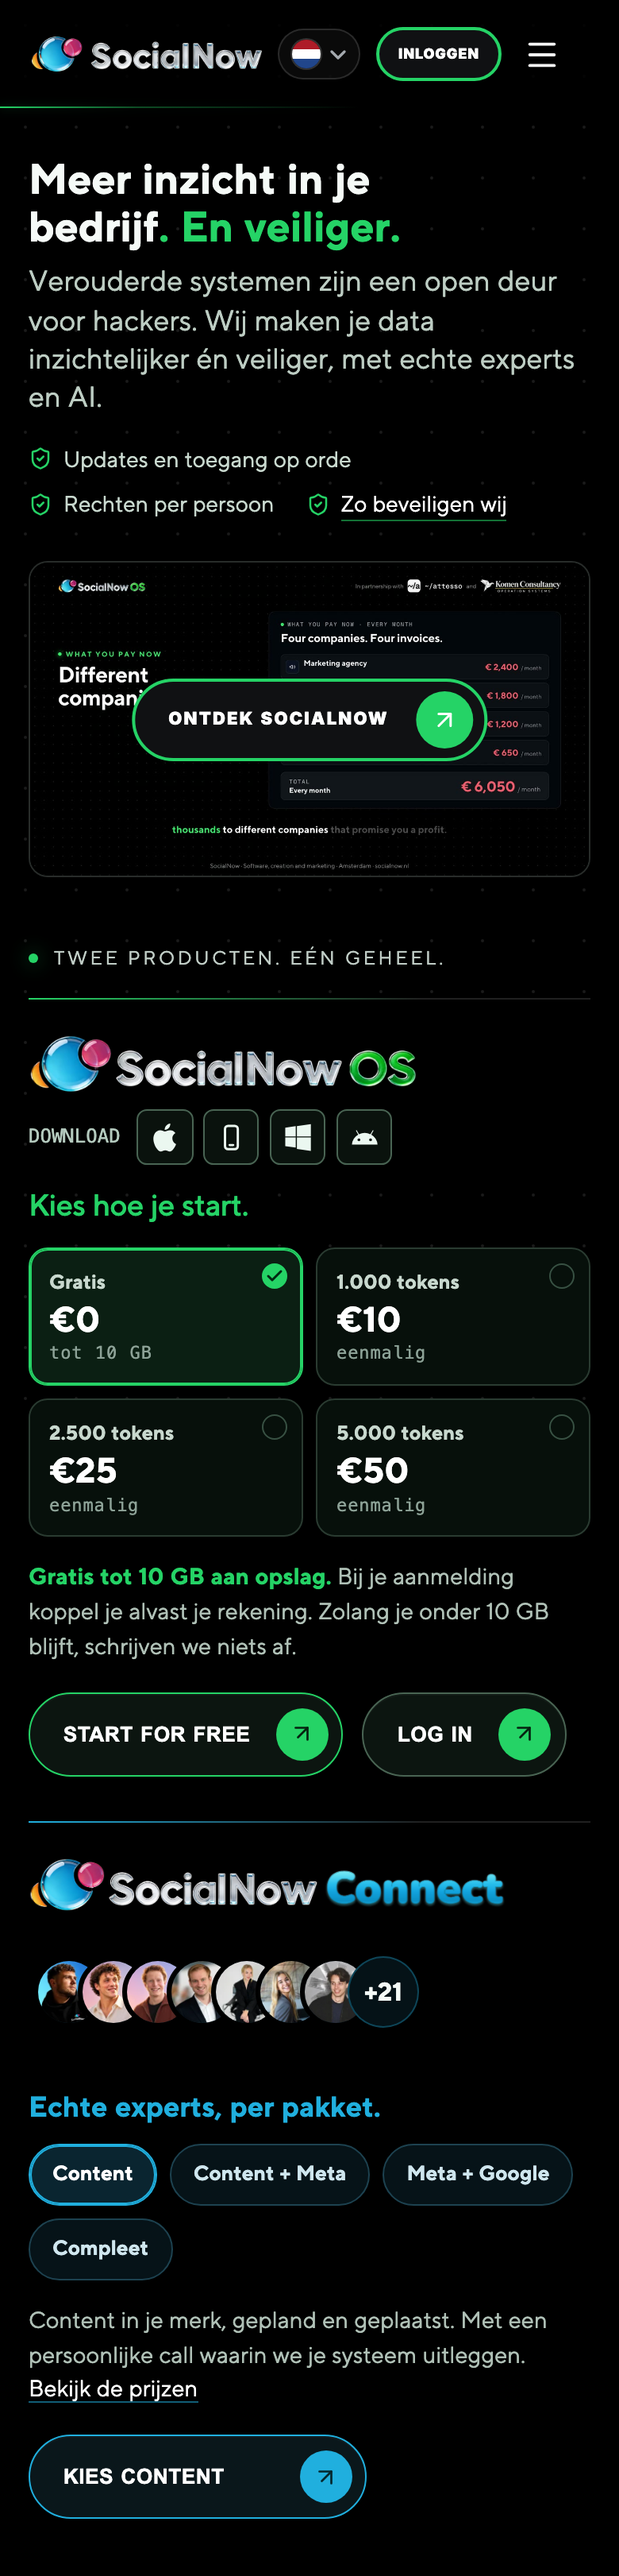
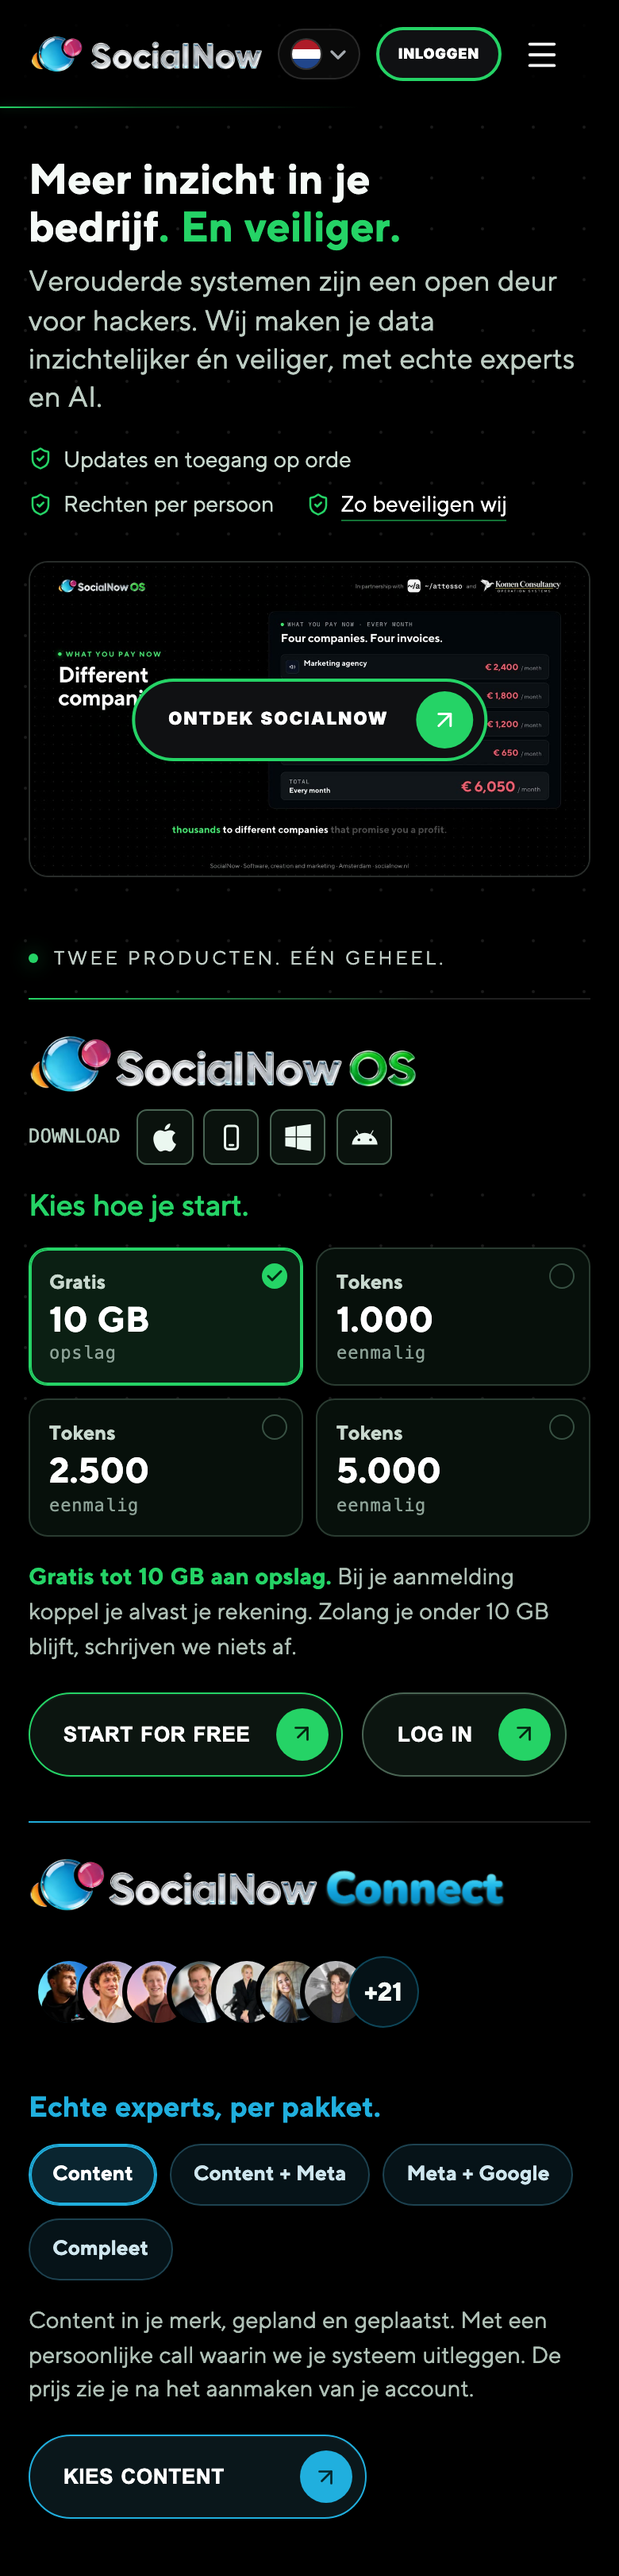
Variant B: geen bedragen in de header, prijzen pas na het aanmaken van een account

Changed region(s): [[0.0615, 0.4985, 0.2462, 0.5919], [0.5538, 0.4985, 0.7077, 0.5919], [0.0615, 0.9035, 0.3077, 0.9346]]

diff --git a/proposal/HeaderBestaand.tsx b/proposal/HeaderBestaand.tsx
@@ -18,18 +18,18 @@ import "./header-bestaand.css";
 // Daarom dezelfde opzet als variant A (HomeHeader), met een pakketkeuze in plaats van de Milo's en de Connect-gezichten
 // plus hulppakketten. Geen €10.000 meer in de header.
 //
-// Tokenbedragen uit de OS-code (Flyinghighscalingup/socialnow-app, api/_studio-tokens.js, TOKEN_BUNDLES):
-// €10 = 1.000, €25 = 2.500, €50 = 5.000 tokens, excl. btw. De hulppakketten zijn die van /prijzen (Pricing.tsx); hun
-// maandbedrag staat bewust alleen daar. Het gekozen pakket gaat als ?pakket= mee naar de aanmelding van het OS; het OS
+// Daarna: "Die prijzen mag na het account aanmaken." Dus geen bedragen in de header: alleen de pakketten. De
+// tokenpakketten zijn die uit de OS-code (Flyinghighscalingup/socialnow-app, api/_studio-tokens.js, TOKEN_BUNDLES:
+// 1.000, 2.500 en 5.000 tokens). De hulppakketten zijn die van /prijzen (Pricing.tsx). Het gekozen pakket gaat als ?pakket= mee naar de aanmelding van het OS; het OS
 // moet die keuze en het koppelen van de rekening nog zelf tonen.
 
 type Doel = "gratis_os" | "connect" | "explainer" | "veiligheid";
 
 const START = [
-  { id: "gratis", naam: "Gratis", prijs: "€0", sub: "tot 10 GB" },
-  { id: "tokens-1000", naam: "1.000 tokens", prijs: "€10", sub: "eenmalig" },
-  { id: "tokens-2500", naam: "2.500 tokens", prijs: "€25", sub: "eenmalig" },
-  { id: "tokens-5000", naam: "5.000 tokens", prijs: "€50", sub: "eenmalig" },
+  { id: "gratis", naam: "Gratis", groot: "10 GB", sub: "opslag" },
+  { id: "tokens-1000", naam: "Tokens", groot: "1.000", sub: "eenmalig" },
+  { id: "tokens-2500", naam: "Tokens", groot: "2.500", sub: "eenmalig" },
+  { id: "tokens-5000", naam: "Tokens", groot: "5.000", sub: "eenmalig" },
 ];
 const HULP = [
   { id: "Content", wie: "Content in je merk, gepland en geplaatst" },
@@ -59,7 +59,7 @@ export default function HeaderBestaand({ meet }: { meet: (doel: Doel) => void })
                     <button key={s.id} type="button" role="radio" aria-checked={start === s.id} className="bs-pakket" onClick={() => setStart(s.id)}>
                       <span className="bs-vink" aria-hidden="true">{start === s.id && <Check size={12} strokeWidth={3} />}</span>
                       <b>{s.naam}</b>
-                      <strong>{s.prijs}</strong>
+                      <strong>{s.groot}</strong>
                       <small>{s.sub}</small>
                     </button>
                   ))}
@@ -67,7 +67,7 @@ export default function HeaderBestaand({ meet }: { meet: (doel: Doel) => void })
                 <p className="bs-uitleg">
                   {start === "gratis"
                     ? <><strong>Gratis tot 10 GB aan opslag.</strong> Bij je aanmelding koppel je alvast je rekening. Zolang je onder 10 GB blijft, schrijven we niets af.</>
-                    : <><strong>Gratis tot 10 GB, plus {gekozen.naam} voor de Studio.</strong> Eenmalig, geen abonnement. Bij je aanmelding koppel je je rekening.</>}
+                    : <><strong>Gratis tot 10 GB, plus {gekozen.groot} tokens voor de Studio.</strong> Eenmalig, geen abonnement. De prijs zie je nadat je je account hebt aangemaakt.</>}
                 </p>
                 <div className="action os-account-actions">
                   <a className="pill" href={`${GRATIS_OS_URL}?pakket=${start}`} onClick={() => meet("gratis_os")}><span>Start for free</span><span className="arrow"><ArrowUpRight size={17} /></span></a>
@@ -83,7 +83,7 @@ export default function HeaderBestaand({ meet }: { meet: (doel: Doel) => void })
                     <button key={h.id} type="button" role="radio" aria-checked={hulp === h.id} className="bs-chip" onClick={() => setHulp(h.id)} translate="no">{h.id}</button>
                   ))}
                 </div>
-                <p className="bs-uitleg bs-uitleg-hulp">{hulpPakket.wie}. Met een persoonlijke call waarin we je systeem uitleggen. <Link to="/prijzen">Bekijk de prijzen</Link></p>
+                <p className="bs-uitleg bs-uitleg-hulp">{hulpPakket.wie}. Met een persoonlijke call waarin we je systeem uitleggen. De prijs zie je na het aanmaken van je account.</p>
                 <div className="action"><Link className="pill" to={`/contact?onderwerp=${encodeURIComponent(`Pakket ${hulp}`)}`} onClick={() => meet("connect")}><span>Kies {hulp}</span><span className="arrow"><ArrowUpRight size={17} /></span></Link></div>
               </article>
             </div>
